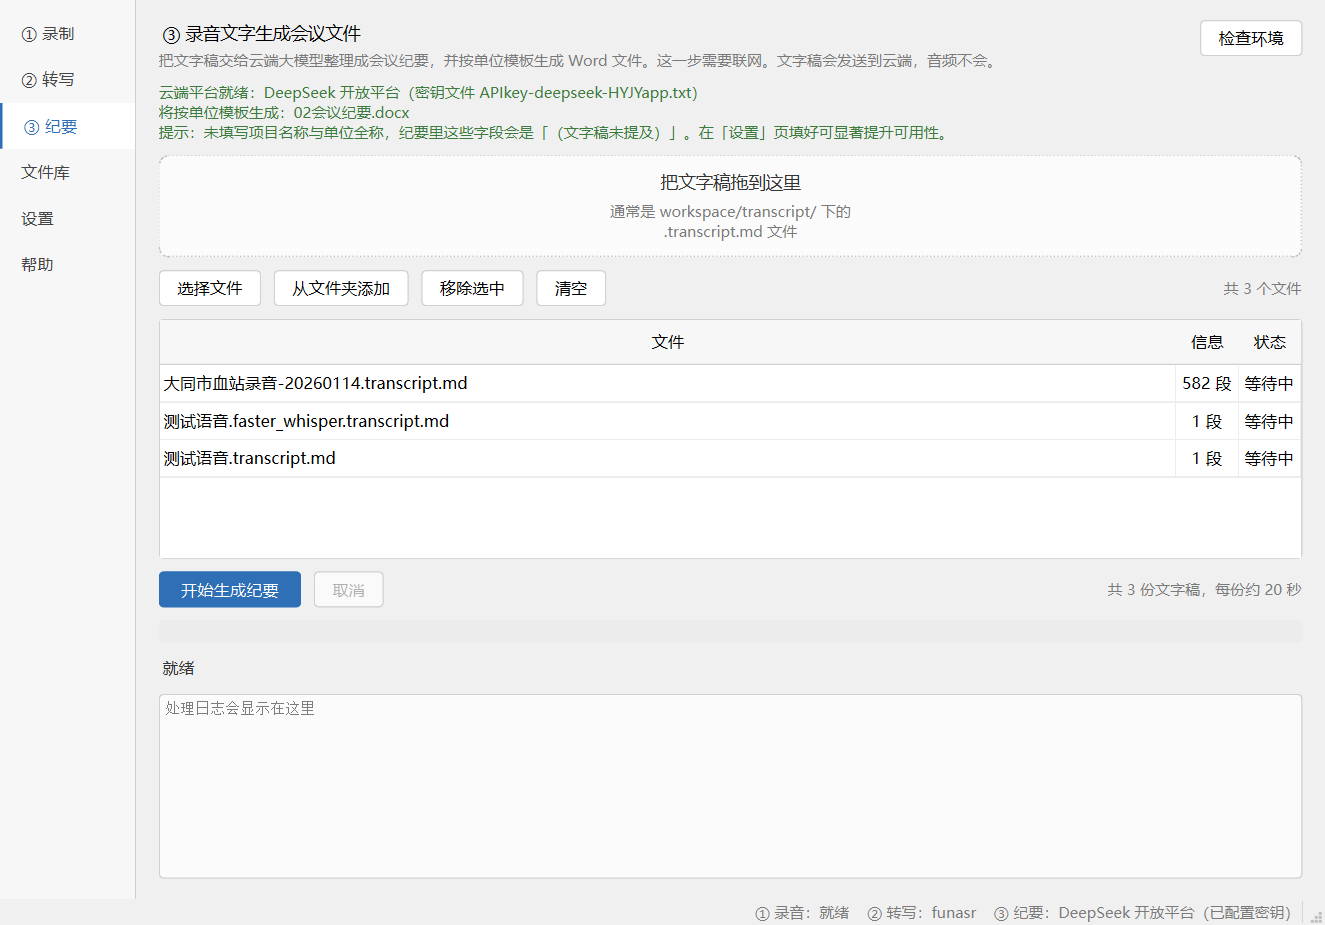
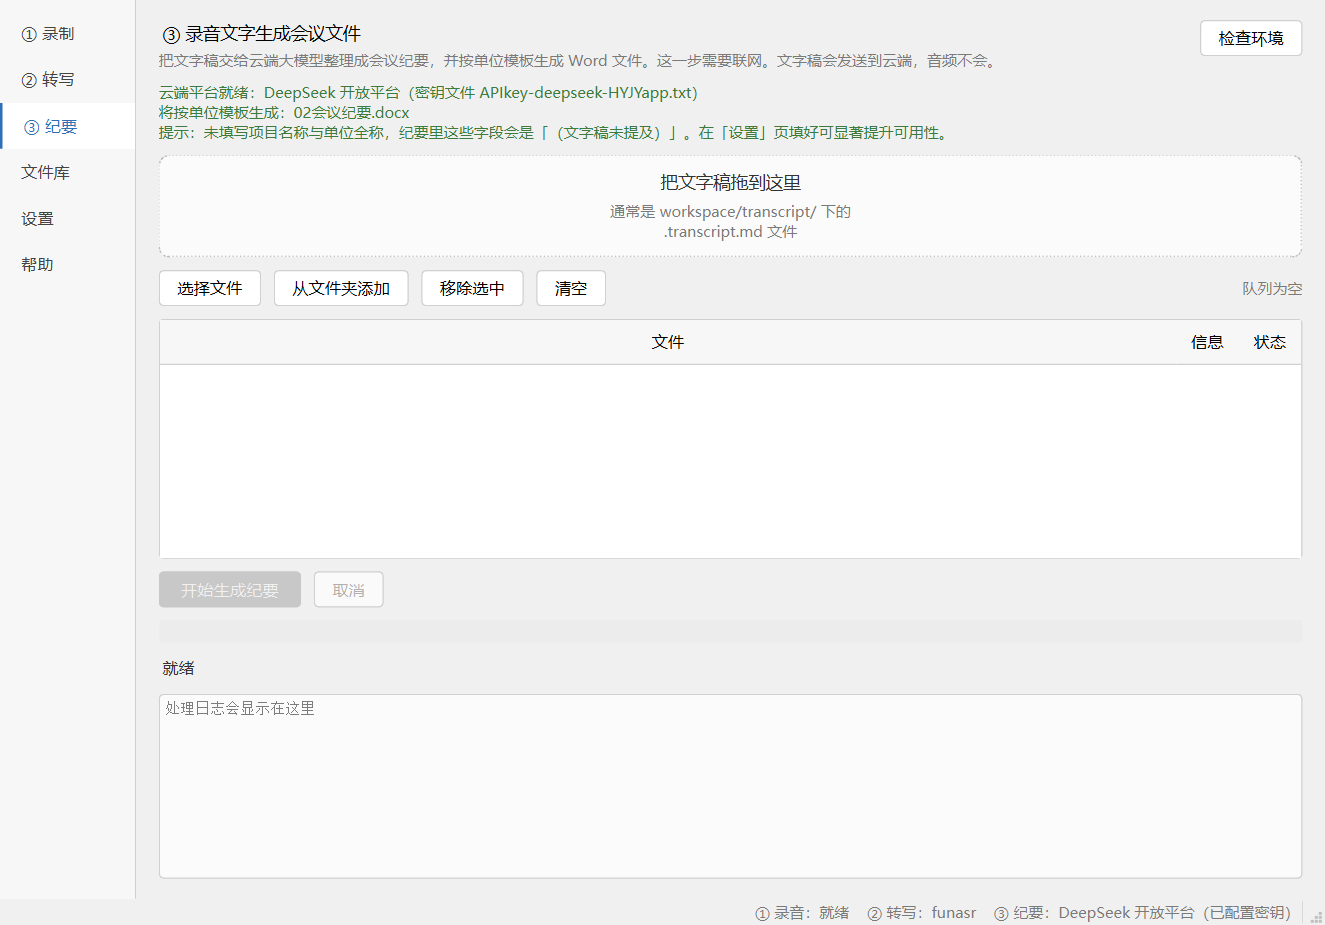
chore: 推送前清理仓库中的业务信息
仓库将托管到 GitHub，需移除开发验证阶段写入的真实单位名、
项目名与地名，替换为通用占位，避免暴露单位承接的政府项目信息。

- 新增 scripts/sanitize_business_terms.py，支持 --check 与 --apply
  两级操作，先扫描确认再执行替换
- 已清理配置示例、文档、测试夹具与注释中的业务信息
- 重新生成界面截图：截图会显示本机文件名，此前含真实业务名，
  已在仅保留脱敏样例的状态下重生成

diff --git a/scripts/sanitize_business_terms.py b/scripts/sanitize_business_terms.py
@@ -1,0 +1,130 @@
+"""把仓库中的业务信息替换为通用占位。
+
+背景：本项目是通用工具，但开发和验证过程中把真实的单位名、项目名、
+地名写进了配置示例、测试夹具和文档里。仓库若公开，这些内容会暴露
+单位承接的政府项目信息，必须在推送前清理。
+
+用法：
+    python scripts/sanitize_business_terms.py --check    # 只扫描，不修改
+    python scripts/sanitize_business_terms.py --apply    # 执行替换
+"""
+
+from __future__ import annotations
+
+import subprocess
+import sys
+from pathlib import Path
+
+ROOT = Path(__file__).resolve().parent.parent
+
+# 替换规则：键为需要清理的内容，值为通用占位。
+# 按长度倒序应用，避免短词先替换掉长词的局部。
+REPLACEMENTS: dict[str, str] = {
+    # 单位与机构
+    "国研科技": "某某科技",
+    "国研咨询": "某某咨询",
+    "大同市卫生健康委员会": "某某市卫生健康委员会",
+    "大同市疾控中心": "某某市疾控中心",
+    "唐山启奥科技股份有限公司": "某某科技公司",
+
+    # 项目与会议
+    "大同一张网信息化建设项目": "某某市政务信息化建设项目",
+    "大同一张网": "某某政务网",
+    "大同市中心血站": "某某市某单位",
+    "大同市血站": "某某市某单位",
+    "大同市血站录音-20260114": "示例会议录音",
+    "血站信息化": "行业信息化",
+    "网络数字教学": "业务系统",
+    "灵丘县调研": "某县调研",
+    "血站调研": "业务调研",
+    "中心血站": "某单位",
+    "血站": "某单位",
+
+    # 地名
+    "大同市": "某某市",
+    "大同": "某地",
+}
+
+# 只处理这些类型，避免误伤二进制
+TEXT_SUFFIXES = {".md", ".py", ".yaml", ".yml", ".example", ".txt", ".bat", ""}
+
+
+def tracked_files() -> list[Path]:
+    """列出仓库中的文件。
+
+    必须用 -z 取 NUL 分隔的原始路径：git 默认会把含中文等非 ASCII 字符的
+    路径转义成八进制并加引号（core.quotePath），直接按行解析会得到
+    `"docs/\\347\\225..."` 这样的字符串，导致中文名文件被整体跳过 ——
+    实测中文命名的文档因此差点漏检。
+    """
+    result = subprocess.run(
+        ["git", "ls-files", "-z"],
+        cwd=ROOT,
+        capture_output=True,
+    )
+    raw = result.stdout.decode("utf-8", errors="surrogateescape")
+    return [ROOT / name for name in raw.split("\0") if name.strip()]
+
+
+def main() -> int:
+    apply = "--apply" in sys.argv
+    check_only = "--check" in sys.argv or not apply
+
+    files = [f for f in tracked_files() if f.is_file() and f.suffix.lower() in TEXT_SUFFIXES]
+    if not files:
+        print("未找到可处理的文本文件。")
+        return 0
+
+    total_changes = 0
+    touched: list[str] = []
+
+    for path in files:
+        try:
+            original = path.read_text(encoding="utf-8")
+        except (UnicodeDecodeError, OSError):
+            continue
+
+        updated = original
+        hits: dict[str, int] = {}
+        for src in sorted(REPLACEMENTS, key=len, reverse=True):
+            dst = REPLACEMENTS[src]
+            if src in updated:
+                hits[src] = updated.count(src)
+                updated = updated.replace(src, dst)
+
+        if not hits:
+            continue
+
+        rel = path.relative_to(ROOT).as_posix()
+        count = sum(hits.values())
+        total_changes += count
+        touched.append(rel)
+        print(f"  {rel}")
+        for src, n in sorted(hits.items(), key=lambda kv: -kv[1]):
+            print(f"      {src}  →  {REPLACEMENTS[src]}   （{n} 处）")
+
+        if apply:
+            path.write_text(updated, encoding="utf-8")
+
+    print("")
+    if not touched:
+        print("未发现需要清理的业务信息。")
+        return 0
+
+    print(f"涉及 {len(touched)} 个文件，共 {total_changes} 处。")
+    if check_only:
+        print("")
+        print("这是扫描模式，未修改任何文件。确认无误后加 --apply 执行替换。")
+    else:
+        print("")
+        print("已完成替换。请重新运行测试，并检查界面截图等二进制产物是否也需要更新。")
+    return 0
+
+
+if __name__ == "__main__":
+    for stream in (sys.stdout, sys.stderr):
+        try:
+            stream.reconfigure(encoding="utf-8")  # type: ignore[attr-defined]
+        except Exception:
+            pass
+    raise SystemExit(main())

diff --git a/tests/test_form_mode.py b/tests/test_form_mode.py
@@ -207,7 +207,7 @@ def _():
     out.parent.mkdir(parents=True, exist_ok=True)
 
     data = {
-        "project": "大同一张网信息化建设项目",
+        "project": "某某市政务信息化建设项目",
         "meeting_no": "第3次",
         "meeting_type": "例会",
         "topic": "监理例会",
@@ -216,15 +216,15 @@ def _():
         "host": "张工",
         "recorder": "李工",
         "publish_date": "2026年1月14日",
-        "owner_unit": "大同市卫生健康委员会",
+        "owner_unit": "某某市卫生健康委员会",
         "builder_unit": "某某科技有限公司",
-        "supervisor_unit": "国研咨询",
+        "supervisor_unit": "某某咨询",
         "signatories": {
             "建设单位": {"rep": "王主任", "date": "2026年1月15日"},
             "承建单位": {"rep": "赵经理", "date": "2026年1月15日"},
             "监理单位": {"rep": "张工", "date": "2026年1月15日"},
         },
-        "intro": "2026年1月14日上午，大同市卫生健康委员会组织召开了大同一张网信息化建设项目第3次监理例会，会议主要围绕上阶段建设进度与存在问题展开讨论。",
+        "intro": "2026年1月14日上午，某某市卫生健康委员会组织召开了某某市政务信息化建设项目第3次监理例会，会议主要围绕上阶段建设进度与存在问题展开讨论。",
         "items": ["承建单位于1月20日前提交设备到货计划。", "监理单位本周内完成隐蔽工程影像资料复核。", "设计单位1月18日前出具弱电井变更单。"],
         "attendees": [
             {"unit": "建设单位", "people": ["王主任"]},
@@ -275,9 +275,9 @@ def _():
 
         # 单位名称标签被替换为实际单位全称
         labels = [unique(r.cells)[0].text.strip() for r in table.rows]
-        assert "大同市卫生健康委员会" in labels, f"建设单位名称未替换：{labels[8:12]}"
+        assert "某某市卫生健康委员会" in labels, f"建设单位名称未替换：{labels[8:12]}"
         assert "某某科技有限公司" in labels
-        assert "国研咨询" in labels
+        assert "某某咨询" in labels
 
         # 复选框：例会应被打勾（Wingdings 00FE）
         from docx.oxml.ns import qn
@@ -295,7 +295,7 @@ def _():
 
         # 正文
         body = "\n".join(p.text for p in doc.paragraphs)
-        assert "大同一张网信息化建设项目" in body, "项目名称未写入"
+        assert "某某市政务信息化建设项目" in body, "项目名称未写入"
         assert "（第3次）" in body, "会议次数未写入"
         assert "2026年1月14日上午" in body, "引言段未写入"
         assert "1、承建单位于1月20日前提交设备到货计划。" in body, "条目 1 未写入"

diff --git a/scripts/check_staged.py b/scripts/check_staged.py
@@ -66,18 +66,23 @@ ALLOWLIST = (
 
 
 def staged_files() -> list[str]:
+    """列出暂存区中的文件。
+
+    必须用 -z 取 NUL 分隔的原始路径。git 默认会把含中文等非 ASCII 字符的
+    路径转义成八进制并加引号（core.quotePath），按行解析会得到
+    `"docs/\\347\\225..."` 这样的字符串 —— 于是中文名的文件和目录
+    全部匹配不上禁止规则，安全检查形同虚设。实测踩过这个坑。
+    """
     result = subprocess.run(
-        ["git", "diff", "--cached", "--name-only", "--diff-filter=ACMR"],
+        ["git", "diff", "--cached", "--name-only", "--diff-filter=ACMR", "-z"],
         cwd=ROOT,
         capture_output=True,
-        text=True,
-        encoding="utf-8",
-        errors="ignore",
     )
     if result.returncode != 0:
         print("无法读取暂存区，请确认当前目录是 Git 仓库。")
         sys.exit(2)
-    return [line.strip() for line in result.stdout.splitlines() if line.strip()]
+    raw = result.stdout.decode("utf-8", errors="surrogateescape")
+    return [name for name in raw.split("\0") if name.strip()]
 
 
 def check_paths(files: list[str]) -> list[str]:

diff --git a/app/pages/settings_page.py b/app/pages/settings_page.py
@@ -96,7 +96,7 @@ class SettingsPage(QWidget):
         self.cmb_backend.addItems(["funasr", "faster_whisper"])
 
         self.ed_hotword = QLineEdit()
-        self.ed_hotword.setPlaceholderText("用逗号分隔，例如：血站,冷链监控,临床用血")
+        self.ed_hotword.setPlaceholderText("用逗号分隔，例如：某单位,冷链监控,临床用血")
         self.lbl_hotword_hint = QLabel(
             "热词要按会议主题定制。主题不匹配的热词等于没填 —— 这是实测教训。"
         )

diff --git a/tests/test_gui_smoke.py b/tests/test_gui_smoke.py
@@ -55,7 +55,7 @@ def _app():
 
 
 def _sample_audio() -> Path | None:
-    for name in ("大同市血站录音-20260114.wav", "测试语音.wav"):
+    for name in ("示例会议录音.wav", "测试语音.wav"):
         p = ROOT / "workspace" / "audio" / name
         if p.exists():
             return p

diff --git a/docs/项目方案与设计方案.md b/docs/项目方案与设计方案.md
@@ -14,7 +14,7 @@
 
 ### 1.1 现状
 
-命令行版会议纪要工具已完成开发并在一场真实会议（47 分 47 秒，大同市中心血站调研）上完成端到端验证：本地转写 → 云端生成纪要 → 填充单位正式模板，60 项自动化测试全部通过。
+命令行版会议纪要工具已完成开发并在一场真实会议（47 分 47 秒，某某市某单位调研）上完成端到端验证：本地转写 → 云端生成纪要 → 填充单位正式模板，60 项自动化测试全部通过。
 
 目前的使用方式是命令行：`python mm.py run 录音.m4a --project "..."`。对使用者而言存在三个障碍：
 
@@ -257,8 +257,8 @@
 │          │   [ 选择文件 ]  [ 开始录音 ]                     │
 │  ② 结果  │                                                 │
 │          │   ┌───────────────────────────────────────┐     │
-│  ③ 设置  │   │ 血站调研.m4a    47:47   等待中        │     │
-│          │   │ 灵丘县调研.mp3  待分析  等待中        │     │
+│  ③ 设置  │   │ 业务调研.m4a    47:47   等待中        │     │
+│          │   │ 某县调研.mp3  待分析  等待中        │     │
 │  ④ 帮助  │   └───────────────────────────────────────┘     │
 │          │                                                 │
 │          │   [ 开始处理 ]        预计需要 25 分钟           │

diff --git a/README.md b/README.md
@@ -203,10 +203,10 @@ python mm.py glossary --test workspace\transcript\xxx.transcript.md
 ```bat
 python mm.py run 会议录音.wav ^
   --form "F:\项目用表（新）\新模板-标准化-20230802\监理文档模板\建设项目监理文档模板\02会议纪要.docx" ^
-  --project "大同一张网信息化建设项目" ^
-  --owner-unit "大同市卫生健康委员会" ^
+  --project "某某市政务信息化建设项目" ^
+  --owner-unit "某某市卫生健康委员会" ^
   --builder-unit "某某科技有限公司" ^
-  --supervisor-unit "国研咨询" ^
+  --supervisor-unit "某某咨询" ^
   --meeting-no "第3次"
 ```
 
@@ -307,7 +307,7 @@ python mm.py run 录音.wav --backend faster_whisper
 ```yaml
 transcription:
   funasr:
-    hotword: "国研科技,信息化工程监理,总监理工程师,监理通知单,初步验收,最终验收,竣工验收,隐蔽工程,综合布线,桥架,弱电井,核心交换机,网络数字教学,建设单位,承建单位,监理单位"
+    hotword: "某某科技,信息化工程监理,总监理工程师,监理通知单,初步验收,最终验收,竣工验收,隐蔽工程,综合布线,桥架,弱电井,核心交换机,业务系统,建设单位,承建单位,监理单位"
 ```
 
 可用逗号、顿号或空格分隔，程序会自动转换引擎要求的格式并去重。
